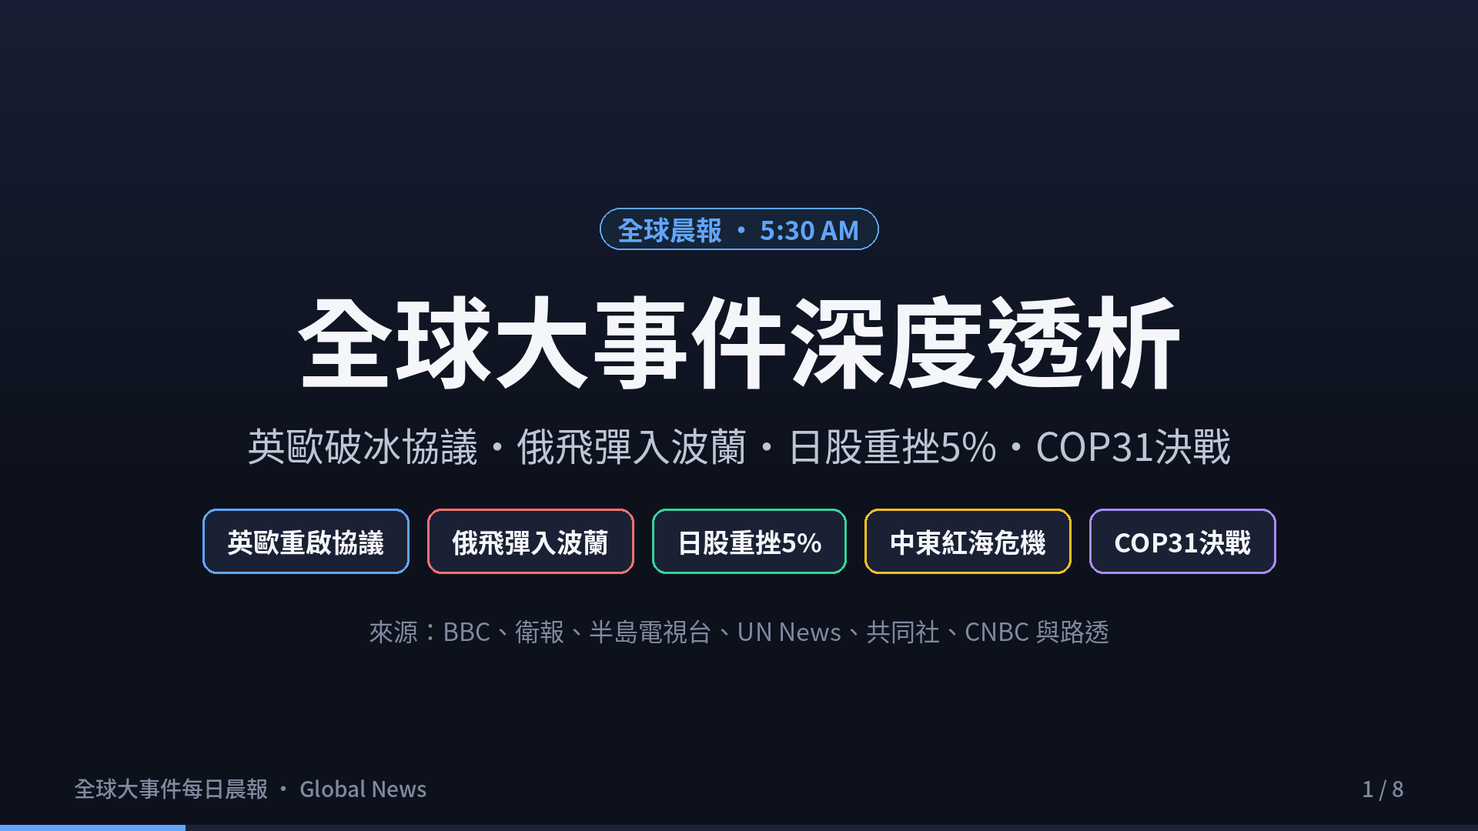
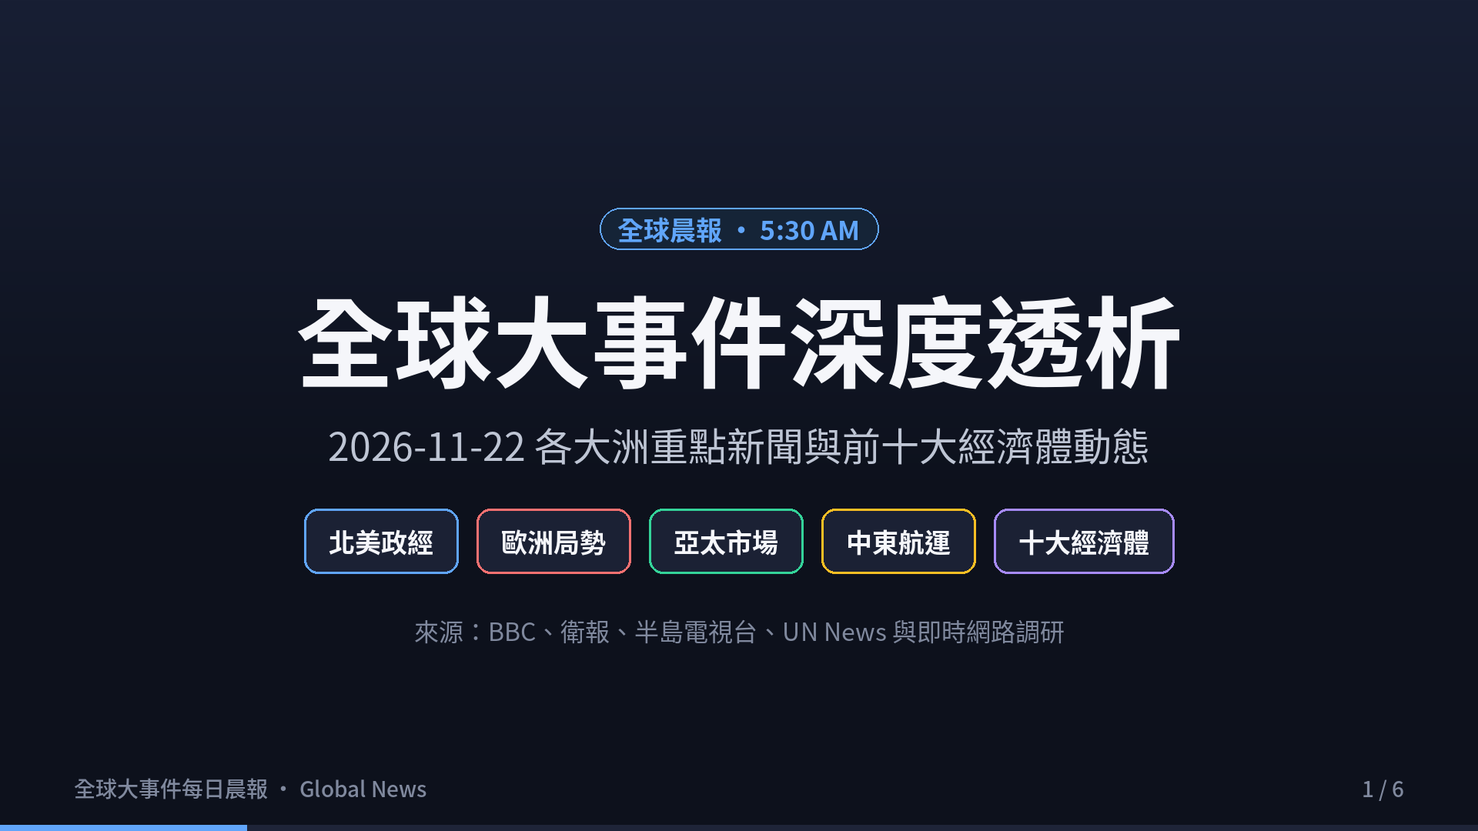
feat(blog): add global news daily report 2026-11-22

diff --git a/content/global-news/index.md b/content/global-news/index.md
@@ -1,135 +1,43 @@
 ---
-title: "全球大事件每日晨報 · 2026-11-21：英歐脫歐後重啟協議・俄飛彈墜波蘭・日股重挫5%・COP31跨洲激辯"
+title: "全球大事件每日晨報 · 2026-11-22"
 url: "/global-news/"
-date: 2026-11-21T05:30:00+08:00
+date: 2026-11-22T05:30:00+08:00
 draft: false
 image: cover.png
 cover: "https://ckw19810413.github.io/global-news/cover.png"
-description: "2026-11-21 全球各大洲與前十大經濟體深度解析：英歐達成脫歐後重啟協議、俄巡弋飛彈與無人機墜落波蘭、川普擬禁美企海外建 AI 中心、日經暴跌逾 5% 與日本核心 CPI 升至 2.2%、ICJ 裁定緬甸種族滅絕罪、胡塞威脅沙國紅海港口、COP31 跨洲激辯退煤與氣候融資。"
-tags: ["全球大事件", "國際局勢", "英歐協議", "波蘭", "日經指數", "COP31", "Anthropic", "紅海危機", "總體經濟"]
+description: "2026-11-22 全球各大洲最新局勢與前十大經濟體每日晨報。"
+tags: ["全球大事件", "國際局勢", "總體經濟"]
 categories: ["國際局勢", "總體經濟"]
 aliases:
-  - "/global-news/2026-11-21/"
+  - "/global-news/2026-11-22/"
 ---
-
 
 <div style="margin: 2rem 0; border-radius: 12px; overflow: hidden; box-shadow: 0 4px 20px rgba(0,0,0,0.12); border: 1px solid rgba(128,128,128,0.2);">
   <div style="position: relative; padding-bottom: 56.25%; height: 0; overflow: hidden; background: #0f121c;">
-    <iframe src="https://www.youtube.com/embed/-GHLNbDvQhs" title="2026-11-21 全球大事件每日晨報" style="position: absolute; top:0; left: 0; width: 100%; height: 100%; border: 0;" allow="accelerometer; autoplay; clipboard-write; encrypted-media; gyroscope; picture-in-picture; web-share" allowfullscreen></iframe>
-  </div>
-  <div style="background: rgba(0,0,0,0.03); padding: 10px 16px; font-size: 0.9rem; color: var(--card-text-color-secondary, #666); text-align: center; border-top: 1px solid rgba(128,128,128,0.15);">
-    🎬 <strong>120 秒晨間快報影音動態版</strong>（含 AI 自然神經語音朗讀與背景配樂 · <a href="https://youtu.be/-GHLNbDvQhs" target="_blank" rel="noopener">YouTube 觀看</a>）
+    <iframe src="https://www.youtube.com/embed/qaEjl-yjMlg" title="2026-11-22 全球大事件每日晨報" style="position: absolute; top:0; left: 0; width: 100%; height: 100%; border: 0;" allow="accelerometer; autoplay; clipboard-write; encrypted-media; gyroscope; picture-in-picture; web-share" allowfullscreen></iframe>
   </div>
 </div>
 
-> **觀測週期**：2026-11-21 晨間即時彙整  
-> **情報涵蓋**：全球各大洲（歐洲、北美、亞太、中東、拉美、非洲、大洋洲）與全球前 10 大經濟體  
-> **核心來源**：BBC News、英國衛報（The Guardian）、半島電視台（Al Jazeera）、UN News、共同社（Kyodo News）、CNBC、NPR 與 Euronews  
-> **定位宗旨**：以官方公報、金融市場實盤數據與各洲一線通訊社報導為基準，提煉真正驅動全球地緣格局與資本定價的核心脈絡。
+## 今日全球重點掃描 (2026-11-22)
+
+### bbc_world
+- [Zelensky says Crimean Bridge strikes 'fair response' as he meets UK's Streeting](https://www.bbc.co.uk/news/articles/c6wy0qj7w5zqo?at_medium=RSS&at_campaign=rss) — Ukraine's president says Kyiv acted after 109 separate Russian aerial attacks on bridges in Ukraine.
+- [Russia-bound ship attacked in Gulf of Finland](https://www.bbc.co.uk/news/articles/cj752ddve27ko?at_medium=RSS&at_campaign=rss) — Finnish defence forces say that Ukraine was likely behind the drone attack on the vessel.
+- [Tech stock sell-off drags markets down as Anthropic shares slide](https://www.bbc.co.uk/news/articles/c6808ym10vzgo?at_medium=RSS&at_campaign=rss) — Pressures weighed on US markets, with the S&P 500 and the Dow Jones Industrial Average pushed into correction territory.
+### bbc_business
+- [Tech stock sell-off drags markets down as Anthropic shares slide](https://www.bbc.co.uk/news/articles/c6808ym10vzgo?at_medium=RSS&at_campaign=rss) — Pressures weighed on US markets, with the S&P 500 and the Dow Jones Industrial Average pushed into correction territory.
+- [UK to explore even closer ties with EU after agreeing deal, says Burnham](https://www.bbc.co.uk/news/articles/c6jreyqgw4e9o?at_medium=RSS&at_campaign=rss) — The UK-EU deal agreed on Friday covers British food exports, emissions trading and a youth experience scheme.
+- [Faisal Islam: This cost-cutting UK-EU deal doesn't mean lower prices will follow](https://www.bbc.co.uk/news/articles/cm1wr029evnqo?at_medium=RSS&at_campaign=rss) — The trade deal is unlikely lower food prices for shoppers, but should boost the economy more than other post-Brexit agreements.
+### guardian_world
+- [California’s coastal communities on alert as biggest waves in years hit state](https://www.theguardian.com/us-news/2026/nov/20/california-coastal-communities-alert-big-waves-hit-state) — Hazard warnings issued throughout week after powerful swells and waves of more than 9 metres recordedMultiple coastal hazard warnings were issued this week across California as successive areas of low pressure generated 
+- [Race to replant five South African baobabs after export blocked](https://www.theguardian.com/environment/2026/nov/19/baobab-five-trees-south-africa-dug-up-export-blocked-georgia-aoe) — The trees, intended for an unnamed buyer in Georgia, were reportedly dug up without the necessary permitsEnvironmentalists in South Africa are racing to replant five centuries-old baobabs after the 20-tonne trees were du
+- [One in four women globally unable to refuse sex within marriage, says UN](https://www.theguardian.com/global-development/2026/nov/19/women-girls-rights-rape-sexual-violence-africa-marriage-unfpa) — Almost half of women in west and central Africa cannot withhold consent, with girls worst affected, UNFPA findsOne in four women around the world have no power of consent if their husband or partner demands sex, accordin
+### aljazeera
+- [Impunity fuels surge in settler violence across occupied West Bank](https://www.aljazeera.com/video/newsfeed/2026/11/21/impunity-fuels-surge-in-settler-violence-across-occupied-west-bank?traffic_source=rss) — Impunity fuels surge in settler violence across occupied West Bank
+- [Indian man jailed over plot to kill Sikh separatist in US](https://www.aljazeera.com/video/newsfeed/2026/11/21/21-11-sv-us-sikh-separatist-pannun-assassination-plot?traffic_source=rss) — An Indian national has been sentenced to more than 19 years in a US prison for plotting to assassinate Sikh separatist.
+- [Brazil’s Jair Bolsonaro in intensive care with bowel obstruction](https://www.aljazeera.com/news/2026/11/21/brazils-jair-bolsonaro-in-intensive-care-with-bowel-obstruction?traffic_source=rss) — The former president, serving a sentence for plotting a coup, is stable and breathing on his own, the hospital says.
 
 ---
-
-## 🎯 今日全球前 6 大核心事件深度拆解
-
-![焦點 1：英歐達成脫歐後重啟協議，俄巡弋飛彈與無人機墜落波蘭](s02.png)
-
-### 1. 歐洲外交與東歐安全：英歐布魯塞爾達成「脫歐後重啟協議」，俄國兩枚巡弋飛彈與無人機闖入波蘭墜毀
-- **英歐關係歷史性破冰**：
-  - 英國首相柏南（Andy Burnham）於 11 月 20 日在布魯塞爾與歐盟執委會主席馮德萊恩（Ursula von der Leyen）、歐洲理事會主席柯斯塔（António Costa）會談後，正式拍板脫歐十年來最具突破性的「重啟協議」（Reset Deal）。
-  - 協議核心涵蓋三大支柱：（1）建立動植物衛生與植物檢疫（SPS）協定，預計 2028 年 3 月起大幅削減食品與農產品邊境檢查；（2）2028 年起串聯英歐碳排放交易體系（ETS）以降低碳邊境貿易壁壘；（3）推動青年體驗交流計畫，每年開放最多 10 萬名英歐青年跨國生活、工作或進修最長三年。歐盟學生學費減免議題則另設 6 個月談判窗口。
-- **俄國飛彈入侵波蘭領空引發北約警戒**：
-  - 俄軍對烏克蘭發動大規模空襲（造成至少 8 人死亡）期間，兩枚俄製 Kh-101 巡弋飛彈與一架噴射動力無人機飛越波蘭領空，墜毀於波蘭東南部（距「志願者聯盟」11 國部隊在諾瓦德巴舉行的聯合軍演僅約 50 至 75 公里）。
-  - 波蘭總理圖斯克（Donald Tusk）痛批莫斯科此舉為「蓄意挑釁」，波蘭並聯同瑞典「獅鷲」戰機與荷蘭加油機加強東翼防空警戒。
-
----
-
-![焦點 2：川普擬禁美企海外建AI中心，美系統大當機與參院能源法案](s03.png)
-
-### 2. 北美科技監管與內政：川普揚言禁止美企海外建 AI 資料中心，美國多項關鍵數位系統接連當機
-- **AI 算力主權與電力基建競速**：
-  - 繼 AI 指標廠 Anthropic 以每股 83 美元在納斯達克（代碼 `ANT`）完成史上最大規模 IPO（募資約 813 億美元、估值突破 1.3 至 1.8 兆美元級距）後，美國總統川普最新揚言考慮禁止美國企業在海外興建 AI 資料中心，引發全球雲端與算力供應鏈震盪。
-  - 與此同時，美國參議院以 62 比 33 的跨黨派票數通過《美國可負擔性與就業法案》（American Affordability and Jobs Act），大幅簡化電廠與資料中心能源專案的聯邦審批流程。
-- **基礎設施中斷與政局變化**：
-  - 美國銀行業、航空運輸、電子郵件與資安系統連續兩週爆發全國性技術當機，引發國會對數位基礎設施韌性的高度質疑。
-  - 政治版圖方面，民主黨人瑪麗·佩爾托拉（Mary Peltola）在阿拉斯加州擊敗共和黨現任參議員，使民主黨在參議院席次推進至 56 席；美國防長赫格塞斯（Pete Hegseth）則突訪委內瑞拉，會晤代理領袖德爾西·羅德里格斯（Delcy Rodríguez）。
-
----
-
-![焦點 3：日經暴跌逾5%領跌亞股，日本核心通膨升至2.2%牽動升息](s04.png)
-
-### 3. 亞太市場與國際司法：日經指數暴跌逾 5% 領跌亞股、日本核心 CPI 升至 2.2%，ICJ 裁定緬甸犯下種族滅絕罪
-- **AI 資本支出疑慮與晶片禁令壓垮亞股**：
-  - 儘管 Anthropic 完成天價上市，市場對 AI 鉅額資本開支回報率與美國新晶片出口管制的擔憂於 11 月 20 日全面引爆：東京日經 225 指數重挫 **5.06%**（大跌 3,007.56 點，收 56,436.65 點），東證指數（TOPIX）下跌 3.88%。
-  - 香港恆生指數下跌 **1.7%** 至約 22,450 點（創 2025 年 5 月以來新低），騰訊財報中針對算力受限與美國晶片管制影響次世代 AI 模型訓練的預警拖累科技股；上證綜指跌 1.57% 收 3,520 點，深證成指跌 2.05%。
-  - 日本公布最新核心 CPI 年增率攀升至 **2.2%**（受能源補貼退場推動），大幅推升市場對日本銀行（BOJ）於 12 月將政策利率調升至 1.50% 的預期。此外，日本與秘魯、智利達成關鍵礦產（含銅礦）供應鏈合作協議。
-- **國際司法與南亞氣候衝擊**：
-  - 海牙國際法院（ICJ）作出歷史性裁決，認定緬甸政府須對若開邦羅興亞人遭「種族滅絕」負起國家責任，這是聯合國最高司法機構首次依 1948 年《防止及懲治滅絕種族罪公約》對單一國家作出直接究責判決。南亞方面，熱帶氣旋「阿克萬」（Akvan）橫掃印度奧里薩邦與安得拉邦沿海。
-
----
-
-![焦點 4：胡塞威脅沙國紅海港口，荷姆茲封鎖與全歐25國青年示威](s05.png)
-
-### 4. 中東航運危機與歐洲民生抗爭：胡塞要求撤離沙國紅海港口，荷姆茲封鎖推升油價與全歐 25 國示威
-- **紅海與波斯灣能源走廊雙重封鎖風險**：
-  - 葉門胡塞武裝在荷台達與薩那遭空襲後，公開要求撤離沙烏地阿拉伯紅海港口，並威脅鎖定沙國發電廠與首都利雅德。
-  - 根據外洩的美國海事管理局（MARAD）內部備忘錄，華府對伊朗實施的海軍封鎖與荷姆茲海峽航運中斷，已導致全球原油與化肥航運的戰爭險保費急遽飆升；川普則於白宮記者會指控伊朗不誠實並要求達成「真正協議」。
-- **歐洲冬日能源焦慮與 25 國串聯示威**：
-  - 荷姆茲海峽 LNG 運輸受阻使歐洲批發天然氣價格居高不下，歐盟整體儲氣率僅約 **72%**、德國更低至 **58%**。
-  - 高生活成本與軍費擴張引爆怒火，超過 **25 個歐洲國家**（涵蓋法國、德國、英國、義大利、西班牙、葡萄牙等）於 11 月 20 日發起名為「為我們的未來而戰」（Fight For Our Future）的跨國青年與勞工示威，法國 10 年期公債殖利率亦因財政與政經壓力顯著走升。
-
----
-
-![焦點 5：COP31閉幕倒數激辯，法歐拉美非與大洋洲聯手施壓退煤](s06.png)
-
-### 5. 拉美、非洲與大洋洲焦點：COP31 閉幕倒數爆發跨洲對峙，法國與巴拿馬、非洲、太平洋島國聯手施壓化石燃料退場
-- **跨洲氣候聯盟強硬表態**：
-  - 由土耳其主辦、澳洲擔任談判主席國的 **COP31 聯合國氣候峰會**在安塔利亞進入最終決戰時刻（11 月 20–21 日）。法國生態轉型部長與**巴拿馬**、瓜地馬拉、非洲（象牙海岸等）及大洋洲島國（萬那杜等）罕見同台發聲，公開拒絕任何未明確納入「有序轉型脫離化石燃料」條文的決議草案。
-  - **非洲談判集團**強力要求將每年 400 億美元基準的氣候調適融資在 2035 年前提高三倍，以應對極端旱災與洪澇；**巴西**則持續推進 COP30 啟動的「熱帶雨林永續基金」（TFFF）募資承諾。
-- **北非自主國防佈局**：
-  - 摩洛哥王室宣布投入 **3.66 億歐元**啟動十年國家國防工業計畫，目標於 2035 年實現 40% 軍警裝備國產化並透過兩個新設工業區創造逾 65% 的出口產值。
-
----
-
-![焦點 6：IMF警全球公債逼近GDP百%，主要經濟體貨幣政策偏鷹](s07.png)
-
-### 6. 全球前十大經濟體宏觀座標：IMF 警告公債逼近 GDP 100%，降息潮反轉進入「謹慎偏鷹」週期
-
-國際貨幣基金（IMF）總裁喬治艾娃警告，AI 基礎設施龐大投資潮雖支撐成長，卻與地緣能源衝擊疊加推升物價——全球通膨預估維持在 **4.7%** 高檔，全球公共債務更直逼 **GDP 的 100%**，迫使各國央行中止寬鬆、全面轉向偏鷹防禦。
-
-| 排名 | 經濟體 | 核心利率 / 市場指標 | 2026-11-21 即時動態與政策動向 | 產業鏈與資本市場影響 |
-|:---:|:---|:---|:---|:---|
-| **1** | **美國 (USA)** | 聯邦基金利率偏高 · DXY **~103.9** | 川普威脅禁美企海外建 AI 中心；參院通過能源加速審批法案；Anthropic 完成 $81.3B 破紀錄 IPO | 美元強勢吸納避險資金，AI 電力基建受惠，跨國雲端資本開支面臨監管重估 |
-| **2** | **中國 (China)** | 上證 **3,520** (-1.57%) · 恆指 **22,450** (-1.7%) | 科技硬件外銷具韌性，但受美國晶片管制與騰訊等財報預警拖累，內需與地產信用仍疲弱 | 算力受限壓抑互聯網估值，人行寬鬆空間受全球緊縮週期掣肘 |
-| **3** | **德國 (Germany)** | 儲氣率僅 **58%** · 成長約 **1.1%** | 面對冬季能源價格雙倍壓力與青年生活成本示威；外長積極拓展南高加索戰略走廊 | 歐洲製造業能源成本高企，工業鏈轉型與防務預算擠壓財政彈性 |
-| **4** | **日本 (Japan)** | 核心 CPI **2.2%** · 日經 **-5.06%** | 能源補貼退場推升通膨，市場強烈預期日銀 12 月升息至 **1.50%**；與秘魯智利簽署銅礦合作 | 日股遭遇 AI 估值修正重擊，日銀正常化牽動全球套息資金回流 |
-| **5** | **印度 (India)** | 央行維持緊縮防禦姿態 | 熱帶氣旋「阿克萬」侵襲東岸奧里薩邦；COP31 談判力爭發展中經濟體氣候融資與技術轉移 | 維持高利率穩固盧比與抗通膨，同時承接全球製造業分散佈局 |
-| **6** | **英國 (UK)** | 英央行 11 月已實施升息 | 首相柏南與歐盟在布魯塞爾達成脫歐後重啟協議（涵蓋食品檢驗、碳交易與青年交流） | 服務業通膨黏性迫使利率高企，但英歐貿易摩擦有望於 2028 年起顯著緩解 |
-| **7** | **法國 (France)** | 10 年期公債殖利率急升 | 全國爆發生活成本與軍費抗議；與巴拿馬、非洲、大洋洲於 COP31 領銜施壓化石燃料退場 | 主權債利差擴大引發歐元區財政焦慮，綠色轉型政策主導權升溫 |
-| **8** | **義大利 (Italy)** | 受歐洲央行偏鷹基準利率制約 | 歐元區服務與能源通膨黏性壓縮降息空間；COP31 積極推動氣候調適標準與歐盟預算協調 | 高負債結構對歐債殖利率波動敏感，聚焦歐盟基建與能源安全轉型 |
-| **9** | **加拿大 (Canada)** | 緊跟北美高息與貿易調整週期 | 面對 COP31 氣候融資（NCQG）達標壓力；同步協調北美能源與房市降溫帶來的成長挑戰 | 資源出口與跨境供應鏈緊密綁定美國能源及 AI 基礎設施政策變化 |
-| **10** | **巴西 (Brazil)** | 實質高息防禦通膨 | 主導熱帶雨林永續基金（TFFF）於 COP31 尋求國際撥款延續；聯合 IMF 分享抗通膨目標經驗 | 先前果斷升息展現新興市場抗震韌性，綠色林業融資成為核心外交籌碼 |
-
----
-
-## 💡 總結與資產配置生存法則
-
-![今日重點總結](s08.png)
-
-1. **地緣風險與航運雙重定價**：波蘭領空飛彈事件與紅海／荷姆茲海峽封鎖危機，代表國防安全開支與能源運輸風險溢價已成為長期結構變數，而非短期噪音。
-2. **「高利率持久戰」取代降息預期**：IMF 明確示警全球公債逼近 GDP 100% 且通膨維持 4.7%，美、歐、英、日央行政策全面偏鷹，依賴低息融資的高槓桿資產估值仍將面臨下修測試。
-3. **聚焦電力基建與高確定性現金流**：美國參議院加速電廠審批與歐洲儲氣危機共同指向同一主線——「算力背後是電力，亂世之中看現金流」，建議嚴控槓桿、優先配置具備剛性定價權的能源基建與實質獲利資產。
-
----
-
-### ☕ 支持與精選數位資源推薦
-
-如果你覺得這份每日清晨 5:30 的全球情報梳理對你的宏觀判斷有所幫助，歡迎透過以下方式支持或取得我們實戰使用的自動化工具：
-
-- ☕ **請我喝杯咖啡（Ko-fi 小費支持）**：[Ko-fi (ytstories0413)](https://ko-fi.com/ytstories0413) ｜ [Ko-fi (slashman413)](https://ko-fi.com/slashman413)（支持每日自動化調研、語音合成與影音渲染運作）
-- 🚀 **高人效數位商品與自動化模板**：
-  - [Gumroad 數位商品專區](https://slashmaster6.gumroad.com/)：收錄繁體 AI Prompt 提示詞百寶箱、Slashman Tools OS 實戰工作流與飛書/自動化模板
-  - [SlashmanTools 免費 AI Web 工具箱](https://slashmantools.us/)：免費 Token 成本試算、LLM 顯存預估與開發者工具導航
-- 📚 **推薦經典閱讀（聯盟行銷）**：
-  - [《晶片戰爭》（Chip War）— 理解地緣算力與半導體供應鏈必讀](https://www.amazon.com/dp/059371671X?tag=ytstories0413-20)
-  - [《原子習慣》— 打造複利效應的每日系統](https://www.books.com.tw/products/0010792915)
-  - [《人生的智慧》— 叔本華處世哲學經典](https://www.books.com.tw/products/0010613113)
+- ☕ **Ko-fi 支持**：[ytstories0413](https://ko-fi.com/ytstories0413) ｜ [slashman413](https://ko-fi.com/slashman413)
+- 🚀 **數位商品**：[Gumroad 數位商品專區](https://slashmaster6.gumroad.com/) ｜ [SlashmanTools](https://slashmantools.us/)
+- 📚 **推薦閱讀**：[《晶片戰爭》](https://www.amazon.com/dp/059371671X?tag=ytstories0413-20)

diff --git a/content/blog/2026-11-22-global-news/index.md b/content/blog/2026-11-22-global-news/index.md
@@ -1,0 +1,40 @@
+---
+title: "全球大事件每日晨報 · 2026-11-22"
+date: 2026-11-22T05:30:00+08:00
+draft: false
+image: cover.png
+cover: "https://ckw19810413.github.io/blog/2026-11-22-global-news/cover.png"
+description: "2026-11-22 全球各大洲最新局勢與前十大經濟體每日晨報。"
+tags: ["全球大事件", "國際局勢", "總體經濟"]
+categories: ["國際局勢", "總體經濟"]
+---
+
+<div style="margin: 2rem 0; border-radius: 12px; overflow: hidden; box-shadow: 0 4px 20px rgba(0,0,0,0.12); border: 1px solid rgba(128,128,128,0.2);">
+  <div style="position: relative; padding-bottom: 56.25%; height: 0; overflow: hidden; background: #0f121c;">
+    <iframe src="https://www.youtube.com/embed/qaEjl-yjMlg" title="2026-11-22 全球大事件每日晨報" style="position: absolute; top:0; left: 0; width: 100%; height: 100%; border: 0;" allow="accelerometer; autoplay; clipboard-write; encrypted-media; gyroscope; picture-in-picture; web-share" allowfullscreen></iframe>
+  </div>
+</div>
+
+## 今日全球重點掃描 (2026-11-22)
+
+### bbc_world
+- [Zelensky says Crimean Bridge strikes 'fair response' as he meets UK's Streeting](https://www.bbc.co.uk/news/articles/c6wy0qj7w5zqo?at_medium=RSS&at_campaign=rss) — Ukraine's president says Kyiv acted after 109 separate Russian aerial attacks on bridges in Ukraine.
+- [Russia-bound ship attacked in Gulf of Finland](https://www.bbc.co.uk/news/articles/cj752ddve27ko?at_medium=RSS&at_campaign=rss) — Finnish defence forces say that Ukraine was likely behind the drone attack on the vessel.
+- [Tech stock sell-off drags markets down as Anthropic shares slide](https://www.bbc.co.uk/news/articles/c6808ym10vzgo?at_medium=RSS&at_campaign=rss) — Pressures weighed on US markets, with the S&P 500 and the Dow Jones Industrial Average pushed into correction territory.
+### bbc_business
+- [Tech stock sell-off drags markets down as Anthropic shares slide](https://www.bbc.co.uk/news/articles/c6808ym10vzgo?at_medium=RSS&at_campaign=rss) — Pressures weighed on US markets, with the S&P 500 and the Dow Jones Industrial Average pushed into correction territory.
+- [UK to explore even closer ties with EU after agreeing deal, says Burnham](https://www.bbc.co.uk/news/articles/c6jreyqgw4e9o?at_medium=RSS&at_campaign=rss) — The UK-EU deal agreed on Friday covers British food exports, emissions trading and a youth experience scheme.
+- [Faisal Islam: This cost-cutting UK-EU deal doesn't mean lower prices will follow](https://www.bbc.co.uk/news/articles/cm1wr029evnqo?at_medium=RSS&at_campaign=rss) — The trade deal is unlikely lower food prices for shoppers, but should boost the economy more than other post-Brexit agreements.
+### guardian_world
+- [California’s coastal communities on alert as biggest waves in years hit state](https://www.theguardian.com/us-news/2026/nov/20/california-coastal-communities-alert-big-waves-hit-state) — Hazard warnings issued throughout week after powerful swells and waves of more than 9 metres recordedMultiple coastal hazard warnings were issued this week across California as successive areas of low pressure generated 
+- [Race to replant five South African baobabs after export blocked](https://www.theguardian.com/environment/2026/nov/19/baobab-five-trees-south-africa-dug-up-export-blocked-georgia-aoe) — The trees, intended for an unnamed buyer in Georgia, were reportedly dug up without the necessary permitsEnvironmentalists in South Africa are racing to replant five centuries-old baobabs after the 20-tonne trees were du
+- [One in four women globally unable to refuse sex within marriage, says UN](https://www.theguardian.com/global-development/2026/nov/19/women-girls-rights-rape-sexual-violence-africa-marriage-unfpa) — Almost half of women in west and central Africa cannot withhold consent, with girls worst affected, UNFPA findsOne in four women around the world have no power of consent if their husband or partner demands sex, accordin
+### aljazeera
+- [Impunity fuels surge in settler violence across occupied West Bank](https://www.aljazeera.com/video/newsfeed/2026/11/21/impunity-fuels-surge-in-settler-violence-across-occupied-west-bank?traffic_source=rss) — Impunity fuels surge in settler violence across occupied West Bank
+- [Indian man jailed over plot to kill Sikh separatist in US](https://www.aljazeera.com/video/newsfeed/2026/11/21/21-11-sv-us-sikh-separatist-pannun-assassination-plot?traffic_source=rss) — An Indian national has been sentenced to more than 19 years in a US prison for plotting to assassinate Sikh separatist.
+- [Brazil’s Jair Bolsonaro in intensive care with bowel obstruction](https://www.aljazeera.com/news/2026/11/21/brazils-jair-bolsonaro-in-intensive-care-with-bowel-obstruction?traffic_source=rss) — The former president, serving a sentence for plotting a coup, is stable and breathing on his own, the hospital says.
+
+---
+- ☕ **Ko-fi 支持**：[ytstories0413](https://ko-fi.com/ytstories0413) ｜ [slashman413](https://ko-fi.com/slashman413)
+- 🚀 **數位商品**：[Gumroad 數位商品專區](https://slashmaster6.gumroad.com/) ｜ [SlashmanTools](https://slashmantools.us/)
+- 📚 **推薦閱讀**：[《晶片戰爭》](https://www.amazon.com/dp/059371671X?tag=ytstories0413-20)
